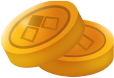
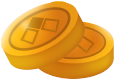
Restructure static folders and move CSS into separate file

diff --git a/web/templates/index.html b/web/templates/index.html
@@ -4,22 +4,7 @@
 
 <title>Blaseball Stlats Tlracker</title>
 
-<!-- TEMP STYLE -->
-<style>
-    body {
-        background-color: #696e71;
-    }
-    .stats_cont {
-        margin-top: 2rem;
-        border-radius: 6px;
-        background-color: #fbfff4;
-    }
-    .stats_table {
-    }
-    .team_emoji {
-        user-select: none;
-    }
-</style>
+<link rel= "stylesheet" type= "text/css" href= "{{ url_for('static', filename='css/index.css') }}">
 
 {% endblock head %}
 
@@ -54,7 +39,7 @@
                 <td>{{ player.stolen_bases }}</td>
 
                 {#  Payout this season #}
-                <td><img src="{{ url_for('static', filename='coin.png') }}" style="width:25px;height:25px;"> {{ player.multiplier * player_base_returns[player.name] }}</td>
+                <td><img id="coin_img" src="{{ url_for('static', filename='img/coin.png') }}"> {{ player.multiplier * player_base_returns[player.name] }}</td>
 
             </tr>
             {% endfor %}

diff --git a/web/static/index.css b/web/static/index.css
@@ -1,0 +1,21 @@
+body {
+    background-color: #696e71;
+}
+
+.stats_cont {
+    margin-top: 2rem;
+    border-radius: 6px;
+    background-color: #fbfff4;
+}
+
+.stats_table {
+}
+
+.team_emoji {
+    user-select: none;
+}
+
+#coin_img {
+    width: 6%;
+    margin-bottom: 0.2rem;
+}
